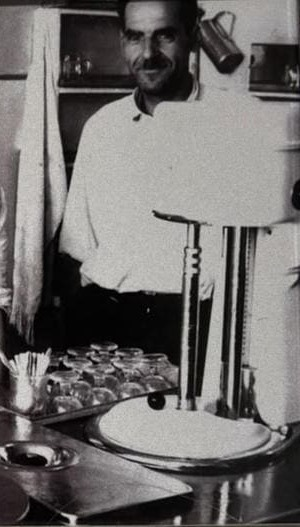
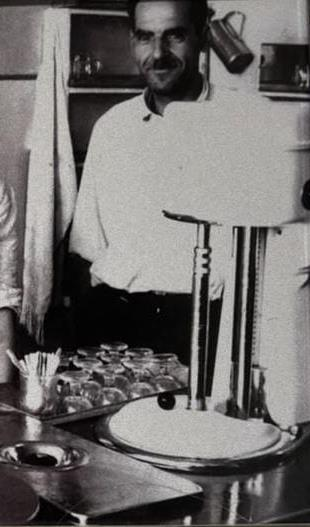
Aile arsivi 2. fotografta yuz kirpilma sorununu duzelt
- img-004.jpg yeniden kirpildi: ortadaki kisi tam disarida, sag kisinin yuzu tam gorunur
- object-position:center top eklendi, boyut kucultuldugunde yuz kesilmesin diye

diff --git a/index.html b/index.html
@@ -744,7 +744,7 @@
       <span>İtalya'dan getirilen<br>ilk dondurma makinesi</span>
     </div>
     <div class="archive-card reveal">
-      <div class="archive-photo"><picture><img src="images/img-004.jpg" alt="Aynı tezgahta, aynı emekle" loading="lazy"></picture></div>
+      <div class="archive-photo"><picture><img src="images/img-004.jpg" alt="Aynı tezgahta, aynı emekle" loading="lazy" style="object-position:center top;"></picture></div>
       <span>Aynı tezgahta<br>aynı emekle</span>
     </div>
     <div class="archive-card reveal">